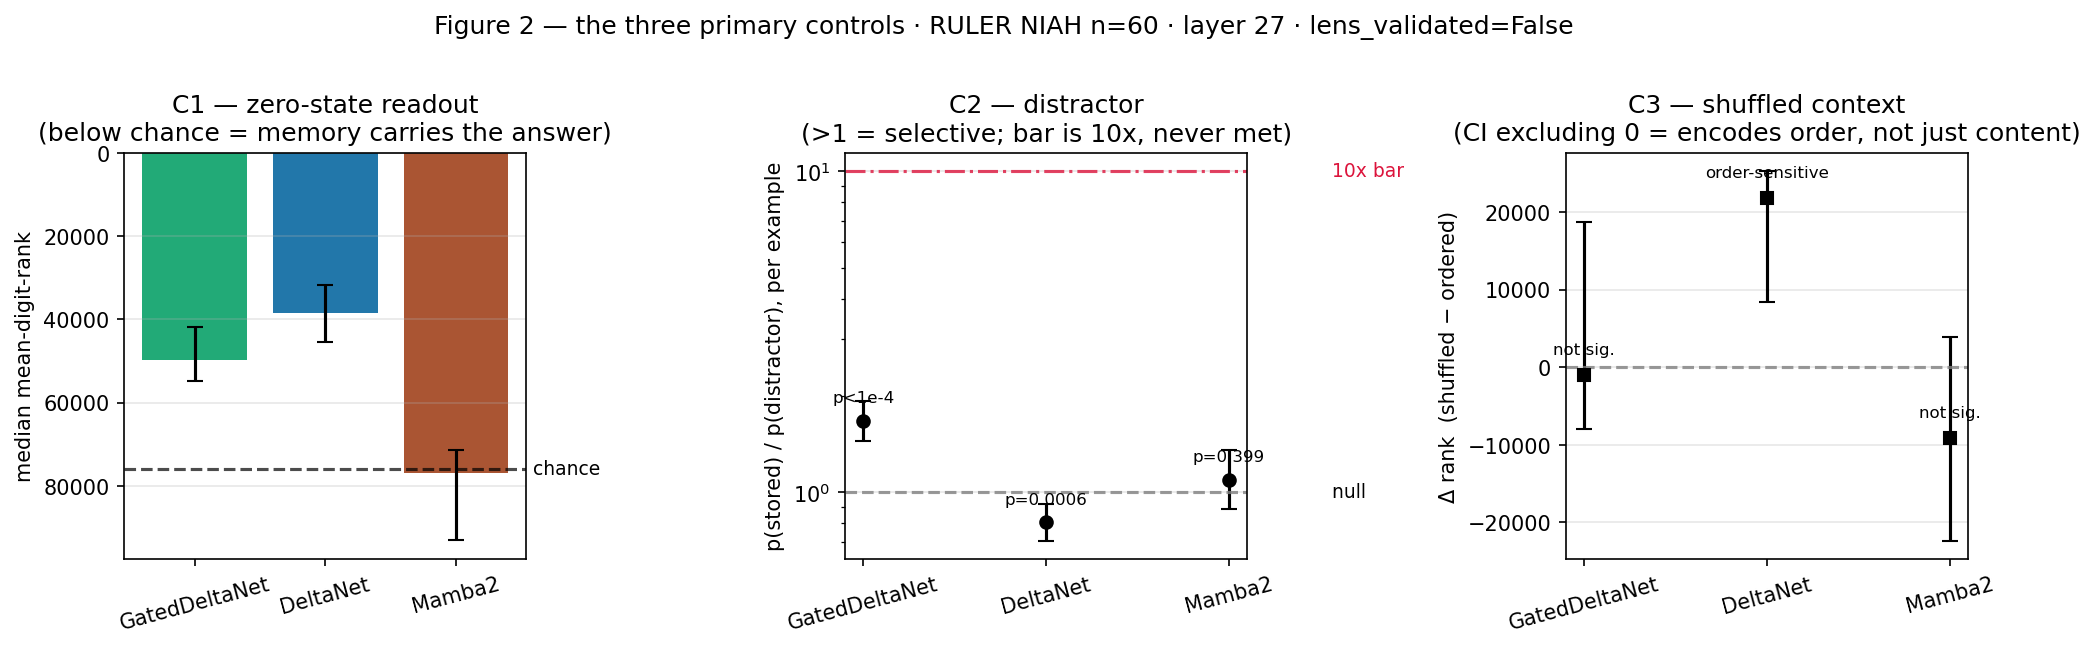
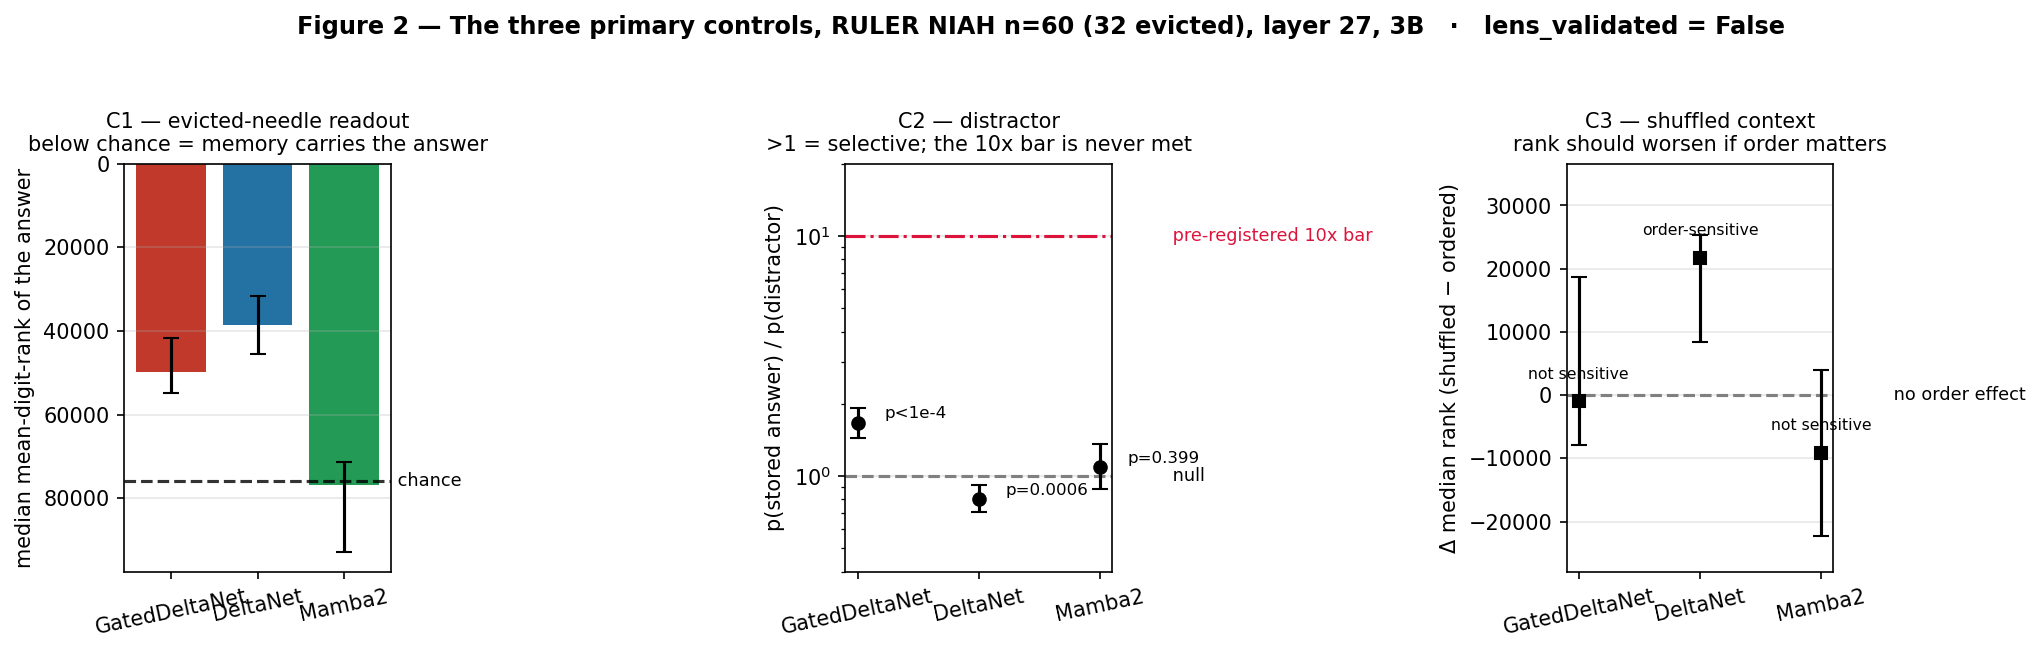
figures: build rev4 Figures 1, 2, 4-8 from committed results
build_paper_figures.py draws Figures 1, 2, 4, 5, 6, 7 and 8 from the committed result
JSONs (Figure 3 stays in build_fig3.py). No synthetic data. Figure 2 is redrawn with
consistent labelling and now covers all three cells; the other six are new.

Findings the figures make visible: retention is flat over the measured distance range
(Figure 4, so half-life is not estimable), no answer rank comes near the top 1,000
(Figure 5), only GDN and DN layer 27 pass both C3-lens and C4 (Figure 6), and retention
rank does not predict per-example dF1 in any cell (Figure 8).

diff --git a/build_paper_figures.py b/build_paper_figures.py
@@ -1,0 +1,334 @@
+"""CPU-only: build Figures 1, 2, 4, 5, 6, 7, 8 of the rev4 artefact set.
+
+Figure 3 (RQ1 forest) is built by build_fig3.py. Every figure here is drawn from
+committed result JSONs; none uses synthetic data. Sources are printed per figure.
+
+    python build_paper_figures.py
+
+Output: results/figures/fig{1,2,4,5,6,7,8}_*.png
+"""
+from __future__ import annotations
+
+import json
+import os
+
+import numpy as np
+import matplotlib
+
+matplotlib.use("Agg")
+import matplotlib.pyplot as plt
+from matplotlib.patches import FancyArrowPatch, Rectangle
+
+OUTDIR = "results/figures"
+CELLS = [("GatedDeltaNet", "gdn", "#c0392b"), ("DeltaNet", "dn", "#2471a3"), ("Mamba2", "m2", "#239b56")]
+LAYERS = [9, 18, 27]
+CHANCE = 75968.0
+UNIFORM_ENTROPY = 11.931214658529285
+ANALYSIS_LAYER = 27
+
+
+def save(fig, name):
+    os.makedirs(OUTDIR, exist_ok=True)
+    p = os.path.join(OUTDIR, name)
+    fig.savefig(p, dpi=150, bbox_inches="tight")
+    plt.close(fig)
+    print("saved", p)
+
+
+def stats(key):
+    return json.load(open(f"results/run_3b_{key}/04i_ruler_controls_stats.json"))["layers"]
+
+
+def ruler_rows(key, layer=ANALYSIS_LAYER, condition="ordered", evicted=True):
+    rows = json.load(open(f"results/run_3b_{key}/04i_ruler_controls_rows.json"))["rows"]
+    return [r for r in rows if r["layer"] == layer and r["condition"] == condition
+            and bool(r["needle_is_evicted"]) == evicted]
+
+
+# ---------------------------------------------------------------- Figure 1
+def fig1():
+    """Schematic: what one row of raw data is. No data; this is the unit-of-analysis diagram."""
+    fig, ax = plt.subplots(figsize=(11.5, 5.2))
+    ax.set_xlim(0, 100); ax.set_ylim(0, 50); ax.axis("off")
+
+    # context bar
+    ax.text(2, 46.5, "One long-context example", fontsize=10, weight="bold")
+    ax.add_patch(Rectangle((2, 36), 4, 6, fc="#f0c419", ec="k", lw=.8))
+    ax.text(4, 43.2, "sinks", ha="center", fontsize=7.5)
+    ax.add_patch(Rectangle((6, 36), 26, 6, fc="#dfe6e9", ec="k", lw=.8))
+    ax.text(20.5, 39, "evicted region — past the window", ha="center", va="center", fontsize=8.5)
+    ax.add_patch(Rectangle((32, 36), 12, 6, fc="#b2eabf", ec="k", lw=.8))
+    ax.text(38, 39, "sliding window\n8064", ha="center", va="center", fontsize=8)
+    ax.add_patch(Rectangle((11.5, 36), 1.6, 6, fc="crimson", ec="k", lw=.8))
+    ax.text(12.3, 43.2, "needle $y^*$", ha="center", fontsize=8, color="crimson")
+    ax.annotate("", xy=(12.3, 35.2), xytext=(32, 35.2),
+                arrowprops=dict(arrowstyle="<->", color="crimson", lw=1.1))
+    ax.text(22.2, 32.8, "eviction distance", ha="center", fontsize=8, color="crimson")
+
+    # model stack
+    ax.add_patch(Rectangle((52, 22), 11, 22, fc="#f5f6fa", ec="k", lw=1))
+    ax.text(57.5, 46.5, "AHN model", ha="center", fontsize=9.5, weight="bold")
+    for i, (L, y) in enumerate(zip(LAYERS, [26, 32, 38])):
+        ax.add_patch(Rectangle((52.6, y), 9.8, 3.4, fc="#dff1fb", ec="#2471a3", lw=.9))
+        ax.text(57.5, y + 1.7, f"layer {L}   $o_t$", ha="center", va="center", fontsize=8.5)
+        ax.add_patch(FancyArrowPatch((62.6, y + 1.7), (71, y + 1.7),
+                                     arrowstyle="->", mutation_scale=11, color="#2471a3", lw=1))
+    ax.add_patch(FancyArrowPatch((44.4, 39), (51.6, 39), arrowstyle="->", mutation_scale=13, color="k", lw=1.2))
+
+    # readout
+    ax.add_patch(Rectangle((71, 24), 26, 18, fc="#fff8e7", ec="#b8860b", lw=1))
+    ax.text(84, 46.5, "J-lens readout (vocabulary space)", ha="center", fontsize=9.5, weight="bold")
+    for txt, y in [("rank($y^*$)  — where the answer sits", 38.2),
+                   ("$P_{mem}(y^*)$  — mass on the answer", 34.6),
+                   ("readout entropy — blank vs confident", 31.0),
+                   ("task F1, and F1 under NOWRITE", 27.4)]:
+        ax.text(72.4, y, "•  " + txt, fontsize=8.6, va="center")
+
+    ax.add_patch(Rectangle((2, 4), 95, 13, fc="#eef4ee", ec="#2d6a4f", lw=1))
+    ax.text(49.5, 14.6, "One row of raw data", ha="center", fontsize=10, weight="bold", color="#2d6a4f")
+    ax.text(49.5, 10.8, "(example id, cell, scale, layer, eviction distance, "
+                        "$P_{mem}(y^*)$, rank($y^*$), readout entropy, task F1, F1 under NOWRITE)",
+            ha="center", fontsize=9, family="monospace")
+    ax.text(49.5, 6.6, "Every table and figure in the paper is an aggregation over these rows. "
+                       "Because task score and readout come from the same forward pass,\n"
+                       "RQ3 is a within-example paired comparison — which is what makes n=60 adequate.",
+            ha="center", fontsize=8.4, style="italic")
+    ax.set_title("Figure 1 — The unit of analysis", fontsize=12, weight="bold", loc="left")
+    save(fig, "fig1_unit_of_analysis.png")
+
+
+# ---------------------------------------------------------------- Figure 2
+def fig2():
+    """C1 / C2 / C3 at the analysis layer, all three cells. Never-cut validation figure."""
+    S = {n: stats(k)[str(ANALYSIS_LAYER)] for n, k, _ in CELLS}
+    names = [n for n, _, _ in CELLS]
+    cols = [c for _, _, c in CELLS]
+    x = np.arange(len(names))
+    fig, axes = plt.subplots(1, 3, figsize=(14, 4.4))
+
+    ax = axes[0]
+    v = [S[n]["C1_sequence"]["median_mean_digit_rank"] for n in names]
+    lo = [S[n]["C1_sequence"]["ci95"][0] for n in names]
+    hi = [S[n]["C1_sequence"]["ci95"][1] for n in names]
+    ax.bar(x, v, yerr=[np.subtract(v, lo), np.subtract(hi, v)], capsize=4, color=cols)
+    ax.axhline(CHANCE, ls="--", c="k", alpha=.8)
+    ax.text(len(names) - .45, CHANCE, " chance", va="center", fontsize=8.5)
+    ax.set_xticks(x); ax.set_xticklabels(names, rotation=12)
+    ax.set_ylabel("median mean-digit-rank of the answer")
+    ax.set_title("C1 — evicted-needle readout\nbelow chance = memory carries the answer", fontsize=10)
+    ax.invert_yaxis(); ax.grid(alpha=.3, axis="y")
+
+    ax = axes[1]
+    v = [S[n]["C2_cross_example"]["effect_per_example"] for n in names]
+    lo = [S[n]["C2_cross_example"]["ci95_effect_per_example"][0] for n in names]
+    hi = [S[n]["C2_cross_example"]["ci95_effect_per_example"][1] for n in names]
+    ax.errorbar(x, v, yerr=[np.subtract(v, lo), np.subtract(hi, v)], fmt="o", capsize=4, color="k", zorder=3)
+    ax.axhline(1.0, ls="--", c="grey"); ax.text(len(names) - .45, 1.0, " null", va="center", fontsize=8.5)
+    ax.axhline(10.0, ls="-.", c="crimson")
+    ax.text(len(names) - .45, 10.0, " pre-registered 10x bar", va="center", fontsize=8.5, color="crimson")
+    for xi, n in zip(x, names):
+        p = S[n]["C2_cross_example"]["permutation_p"]
+        ax.annotate("p<1e-4" if p < 1e-4 else f"p={p:.3g}", (xi, S[n]["C2_cross_example"]["effect_per_example"]),
+                    textcoords="offset points", xytext=(13, 2), ha="left", fontsize=8)
+    ax.set_yscale("log"); ax.set_ylim(0.4, 20)
+    ax.set_xticks(x); ax.set_xticklabels(names, rotation=12)
+    ax.set_ylabel("p(stored answer) / p(distractor)")
+    ax.set_title("C2 — distractor\n>1 = selective; the 10x bar is never met", fontsize=10)
+    ax.grid(alpha=.3, axis="y")
+
+    ax = axes[2]
+    v = [S[n]["C3_context"]["median_delta_shuffled_minus_ordered"] for n in names]
+    lo = [S[n]["C3_context"]["ci95_delta"][0] for n in names]
+    hi = [S[n]["C3_context"]["ci95_delta"][1] for n in names]
+    ax.errorbar(x, v, yerr=[np.subtract(v, lo), np.subtract(hi, v)], fmt="s", capsize=4, color="k", zorder=3)
+    ax.axhline(0, ls="--", c="grey")
+    ax.text(len(names) - .45, 0, " no order effect", va="center", fontsize=8.5)
+    for xi, n in zip(x, names):
+        ax.annotate("order-sensitive" if S[n]["C3_context"]["order_sensitive"] else "not sensitive",
+                    (xi, v[names.index(n)]), textcoords="offset points", xytext=(0, 11), ha="center", fontsize=7.5)
+    ax.set_ylim(min(lo) * 1.25, max(hi) * 1.45)
+    ax.set_xticks(x); ax.set_xticklabels(names, rotation=12)
+    ax.set_ylabel("Δ median rank (shuffled − ordered)")
+    ax.set_title("C3 — shuffled context\nrank should worsen if order matters", fontsize=10)
+    ax.grid(alpha=.3, axis="y")
+
+    fig.suptitle(f"Figure 2 — The three primary controls, RULER NIAH n=60 (32 evicted), "
+                 f"layer {ANALYSIS_LAYER}, 3B   ·   lens_validated = False",
+                 fontsize=11.5, weight="bold")
+    fig.tight_layout(rect=(0, 0, 1, 0.94))
+    save(fig, "fig2_primary_controls.png")
+
+
+# ---------------------------------------------------------------- Figure 4
+def fig4():
+    """Retention vs eviction distance. Rev4 expects exponential decay (straight line on log y)."""
+    fig, axes = plt.subplots(1, 2, figsize=(13.2, 4.6))
+
+    ax = axes[0]
+    for name, key, col in CELLS:
+        r = ruler_rows(key)
+        d = np.array([x["eviction_distance"] for x in r], float)
+        y = np.array([x["answer_logprob"] for x in r], float)
+        o = np.argsort(d)
+        ax.scatter(d, y, s=22, alpha=.55, color=col, label=name, edgecolors="none")
+        b, a = np.polyfit(d, y, 1)
+        ax.plot(d[o], a + b * d[o], color=col, lw=1.6)
+    ax.set_xlabel("eviction distance (tokens past the compression boundary)")
+    ax.set_ylabel("log P(answer digit sequence)   [nats]")
+    ax.set_title(f"A · RULER NIAH, layer {ANALYSIS_LAYER}, evicted needles (n=32/cell)\n"
+                 "y is already a log probability: exponential decay = a downward straight line", fontsize=9.5)
+    ax.legend(fontsize=8); ax.grid(alpha=.3)
+
+    ax = axes[1]
+    rows = json.load(open("results/run_3b_gdn/04_retention_rows.json"))["rows"]
+    for L, m in zip(LAYERS, ["o", "s", "^"]):
+        sel = [r for r in rows if r["layer"] == L and not r["shuffled"] and not r["in_window"]]
+        by = {}
+        for r in sel:
+            by.setdefault(r["requested_distance"], []).append(r["p_mem"])
+        ds = sorted(by)
+        med = [float(np.median(by[d])) for d in ds]
+        ax.plot(ds, med, marker=m, lw=1.5, label=f"layer {L}")
+    ax.set_yscale("log")
+    ax.set_xlabel("requested eviction distance (tokens)")
+    ax.set_ylabel("median $P_{mem}(y^*)$")
+    ax.set_title("B · Homemade single-token needle sweep, GatedDeltaNet only\n"
+                 "the only controlled distance sweep in the project (supporting analysis)", fontsize=9.5)
+    ax.legend(fontsize=8); ax.grid(alpha=.3, which="both")
+
+    fig.suptitle("Figure 4 — Does retention decay with eviction distance?   No decay is visible in either cohort.",
+                 fontsize=11.5, weight="bold")
+    fig.tight_layout(rect=(0, 0, 1, 0.93))
+    save(fig, "fig4_retention_decay.png")
+
+
+# ---------------------------------------------------------------- Figure 5
+def fig5():
+    """Rank vs distance — the interpretable version of Figure 4."""
+    fig, ax = plt.subplots(figsize=(9.6, 5.0))
+    for name, key, col in CELLS:
+        r = ruler_rows(key)
+        d = np.array([x["eviction_distance"] for x in r], float)
+        y = np.array([x["mean_digit_rank"] for x in r], float)
+        ax.scatter(d, y, s=26, alpha=.6, color=col, label=name, edgecolors="none")
+        b, a = np.polyfit(d, y, 1)
+        o = np.argsort(d)
+        ax.plot(d[o], a + b * d[o], color=col, lw=1.6)
+    ax.axhline(CHANCE, ls="--", c="k", alpha=.8)
+    ax.text(ax.get_xlim()[1], CHANCE, " chance (75,968)", va="bottom", ha="right", fontsize=9)
+    ax.axhline(1000, ls="-.", c="crimson", alpha=.9)
+    ax.text(ax.get_xlim()[1], 1000, " top-1000 — the readable-answer threshold", va="bottom", ha="right",
+            fontsize=9, color="crimson")
+    ax.set_yscale("log")
+    ax.set_xlabel("eviction distance (tokens past the compression boundary)")
+    ax.set_ylabel("mean rank of the answer digits  (lower = stronger)")
+    ax.set_title(f"Figure 5 — Where does the answer actually sit?   RULER NIAH, layer {ANALYSIS_LAYER}, "
+                 f"evicted needles\nNo example is close to the top-1000 line at any distance.",
+                 fontsize=11, weight="bold")
+    ax.legend(fontsize=9); ax.grid(alpha=.3, which="both")
+    save(fig, "fig5_rank_vs_distance.png")
+
+
+# ---------------------------------------------------------------- Figure 6
+def fig6():
+    """Layer × cell heatmap, with the control verdicts overlaid."""
+    M = np.zeros((len(CELLS), len(LAYERS)))
+    note = [["" for _ in LAYERS] for _ in CELLS]
+    for i, (name, key, _) in enumerate(CELLS):
+        S = stats(key)
+        for j, L in enumerate(LAYERS):
+            s = S[str(L)]
+            M[i, j] = s["C1_sequence"]["median_mean_digit_rank"] / CHANCE
+            ok = s["C3_lens"]["signal_collapses"] and s["C4_layer_permutation"]["map_is_layer_specific"]
+            note[i][j] = ("real readout" if ok else "decoding artefact")
+    fig, ax = plt.subplots(figsize=(8.6, 4.4))
+    im = ax.imshow(M, cmap="RdYlGn_r", vmin=0, vmax=1.6, aspect="auto")
+    ax.set_xticks(range(len(LAYERS))); ax.set_xticklabels([f"layer {L}" for L in LAYERS])
+    ax.set_yticks(range(len(CELLS))); ax.set_yticklabels([n for n, _, _ in CELLS])
+    for i in range(len(CELLS)):
+        for j in range(len(LAYERS)):
+            dark = M[i, j] < 0.3 or M[i, j] > 1.3
+            fg = "white" if dark else "#111"
+            ax.text(j, i - .13, f"{M[i, j]:.2f}x chance", ha="center", va="center",
+                    fontsize=10, weight="bold", color=fg)
+            ax.text(j, i + .17, note[i][j], ha="center", va="center", fontsize=8.5,
+                    style="italic", color=fg)
+    fig.colorbar(im, ax=ax, label="median answer rank ÷ chance   (<1 = better than chance)")
+    ax.set_title("Figure 6 — Is retention concentrated in particular layers?\n"
+                 "Colour is the C1 readout; the label says whether C3-lens and C4 accept it as a real readout",
+                 fontsize=10.5, weight="bold")
+    fig.tight_layout()
+    save(fig, "fig6_layer_heatmap.png")
+
+
+# ---------------------------------------------------------------- Figure 7
+def fig7():
+    """Entropy: blank memory (entropy -> uniform) vs confidently wrong (entropy low, rank collapsed)."""
+    fig, axes = plt.subplots(1, 2, figsize=(13, 4.5))
+
+    ax = axes[0]
+    c = json.load(open("results/run_3b_gdn/04c_per_layer_controls.json"))["layers"]
+    v = [c[str(L)]["d_resid_preregistered"]["readout_entropy_median_nats"] for L in LAYERS]
+    ax.bar([f"layer {L}" for L in LAYERS], v, color="#2471a3", width=.55)
+    ax.axhline(UNIFORM_ENTROPY, ls="--", c="crimson")
+    ax.text(2.4, UNIFORM_ENTROPY, " uniform (11.93)", va="bottom", ha="right", fontsize=9, color="crimson")
+    for i, y in enumerate(v):
+        ax.annotate(f"{y:.2f}", (i, y), textcoords="offset points", xytext=(0, 4), ha="center", fontsize=9)
+    ax.set_ylim(0, 13.2); ax.set_ylabel("median readout entropy (nats)")
+    ax.set_title("A · GatedDeltaNet, homemade needle cohort\n"
+                 "layer 9 is degenerate — confident, and wrong", fontsize=9.5)
+    ax.grid(alpha=.3, axis="y")
+
+    ax = axes[1]
+    data, labels, cols = [], [], []
+    for name, key, col in CELLS:
+        rows = json.load(open(f"results/run_3b_{key}/04b_joined_retention_task.json"))["rows"]
+        data.append([r["entropy_at_prompt_end"] for r in rows]); labels.append(name); cols.append(col)
+    bp = ax.boxplot(data, tick_labels=labels, patch_artist=True, showfliers=True)
+    for patch, col in zip(bp["boxes"], cols):
+        patch.set_facecolor(col); patch.set_alpha(.55)
+    ax.axhline(UNIFORM_ENTROPY, ls="--", c="crimson")
+    ax.text(3.45, UNIFORM_ENTROPY, " uniform", va="bottom", ha="right", fontsize=9, color="crimson")
+    ax.set_ylabel("readout entropy at prompt end (nats)")
+    ax.set_title("B · LongBench-E HotpotQA, layer 18, all three cells (n=60 each)\n"
+                 "chat-template 04b run", fontsize=9.5)
+    ax.grid(alpha=.3, axis="y")
+
+    fig.suptitle("Figure 7 — Blank memory or confidently wrong?", fontsize=11.5, weight="bold")
+    fig.tight_layout(rect=(0, 0, 1, 0.93))
+    save(fig, "fig7_readout_entropy.png")
+
+
+# ---------------------------------------------------------------- Figure 8
+def fig8():
+    """RQ3: retention content vs dF1, side by side with boundary JS vs dF1."""
+    from scipy import stats as sps
+    fig, axes = plt.subplots(1, 2, figsize=(13, 5.0), sharey=True)
+    for ax, (pred, lab, title) in zip(axes, [
+            ("rank", "target rank at prompt end (layer 18)",
+             "A · Retention content  —  this paper's predictor"),
+            ("js", "boundary Jensen–Shannon divergence",
+             "B · Output divergence  —  the predictor prior work tested")]):
+        for name, key, col in CELLS:
+            rows = json.load(open(f"results/run_3b_{key}/04b_joined_retention_task.json"))["rows"]
+            js = {str(r["id"]): r["boundary_js"] for r in
+                  json.load(open(f"results/run_3b_{key}/03_nowrite_reproduction.json"))["per_example"]}
+            y = np.array([r["delta_f1"] for r in rows], float)
+            x = np.array([r["rank_at_prompt_end"] if pred == "rank" else js[str(r["id"])] for r in rows], float)
+            rho, p = sps.spearmanr(x, y)
+            ax.scatter(x, y, s=26, alpha=.6, color=col, edgecolors="none",
+                       label=f"{name}   ρ={rho:+.2f} (p={p:.2f})")
+        ax.axhline(0, ls="--", c="grey", lw=1)
+        ax.set_xlabel(lab); ax.set_title(title, fontsize=10)
+        ax.legend(fontsize=8.5, loc="lower right"); ax.grid(alpha=.3)
+        if pred == "rank":
+            ax.set_ylabel("per-example ΔF1  (AHN − NOWRITE)")
+    fig.suptitle("Figure 8 — Does what the memory retains predict which examples AHN helps?\n"
+                 "Neither predictor separates the examples; ΔF1 is zero on 52–55 of 60 examples in every cell.",
+                 fontsize=11.5, weight="bold")
+    fig.tight_layout(rect=(0, 0, 1, 0.90))
+    save(fig, "fig8_rq3_scatter.png")
+
+
+if __name__ == "__main__":
+    fig1(); fig2(); fig4(); fig5(); fig6(); fig7(); fig8()
